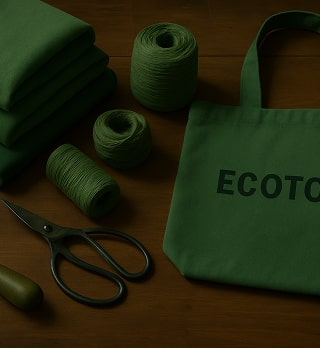
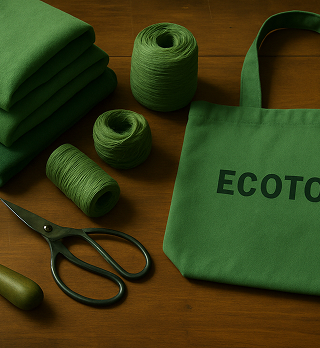
change tinned photo in about section to clear + linear gradient

diff --git a/src/css/about.css b/src/css/about.css
@@ -1,6 +1,9 @@
 /* about */
 .section-about {
-    background-image: 
+    background-image: linear-gradient(
+        rgba(0, 0, 0, 0.4),
+        rgba(0, 0, 0, 0.4)
+        ),
         url(/img/about/about_mob.jpg);
         margin: 0;
         width: 100%;
@@ -13,7 +16,10 @@
 
 @media screen and (min-resolution: 2x) {
     .section-about {
-        background-image: 
+        background-image:  linear-gradient(
+            rgba(0, 0, 0, 0.4),
+            rgba(0, 0, 0, 0.4)
+            ),
             url(/img/about/about_mob@2x.jpg);
     }
 }
@@ -57,16 +63,22 @@
 /*______________Tablet_______________*/
 @media screen and (min-width: 768px) {
     .section-about {
-        background-image: 
-            url(/img/about/about_tablet.jpg);
+        background-image: linear-gradient(
+            rgba(0, 0, 0, 0.4),
+            rgba(0, 0, 0, 0.4)
+            ),
+            url(/img/about/about_mob.jpg);
         padding-top: 80px;
         padding-bottom: 80px;
     }
     
     @media screen and (min-resolution: 2x) {
         .section-about {
-            background-image: 
-                url(/img/about/about_tablet@2x.jpg);
+            background-image: linear-gradient(
+                rgba(0, 0, 0, 0.4),
+                rgba(0, 0, 0, 0.4)
+                ),
+                url(/img/about/about_mob.jpg);
         }
     }
 
@@ -91,7 +103,10 @@
 
 @media screen and (min-width: 1440px) {
     .section-about {
-        background-image: 
+        background-image: linear-gradient(
+            rgba(0, 0, 0, 0.4),
+            rgba(0, 0, 0, 0.4)
+            ),
             url(/img/about/about_desk.jpg);
         padding-top: 112px;
         padding-bottom: 94px;
@@ -99,7 +114,10 @@
     
     @media screen and (min-resolution: 2x) {
         .section-about {
-            background-image: 
+            background-image: linear-gradient(
+                rgba(0, 0, 0, 0.4),
+                rgba(0, 0, 0, 0.4)
+                ),
                 url(/img/about/about_desk@2x.jpg);
         }
     }
